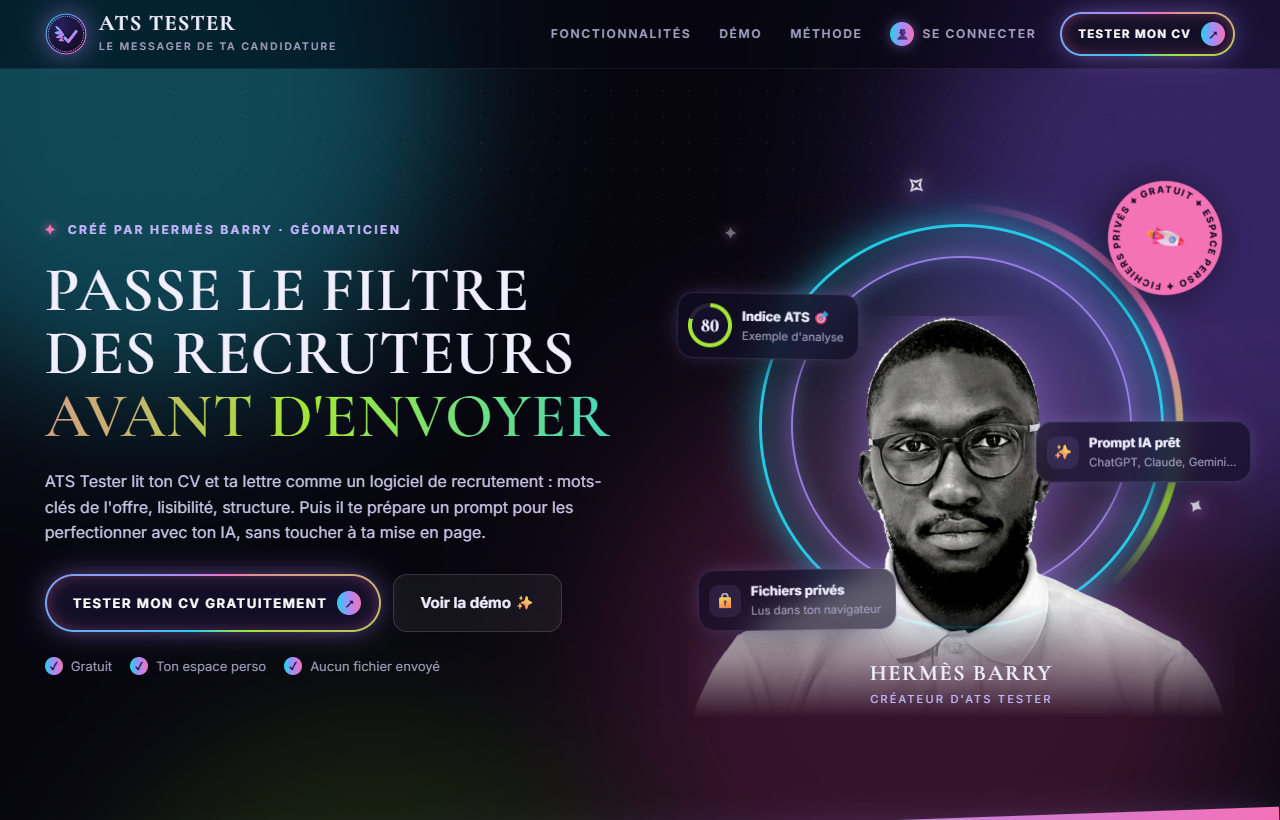
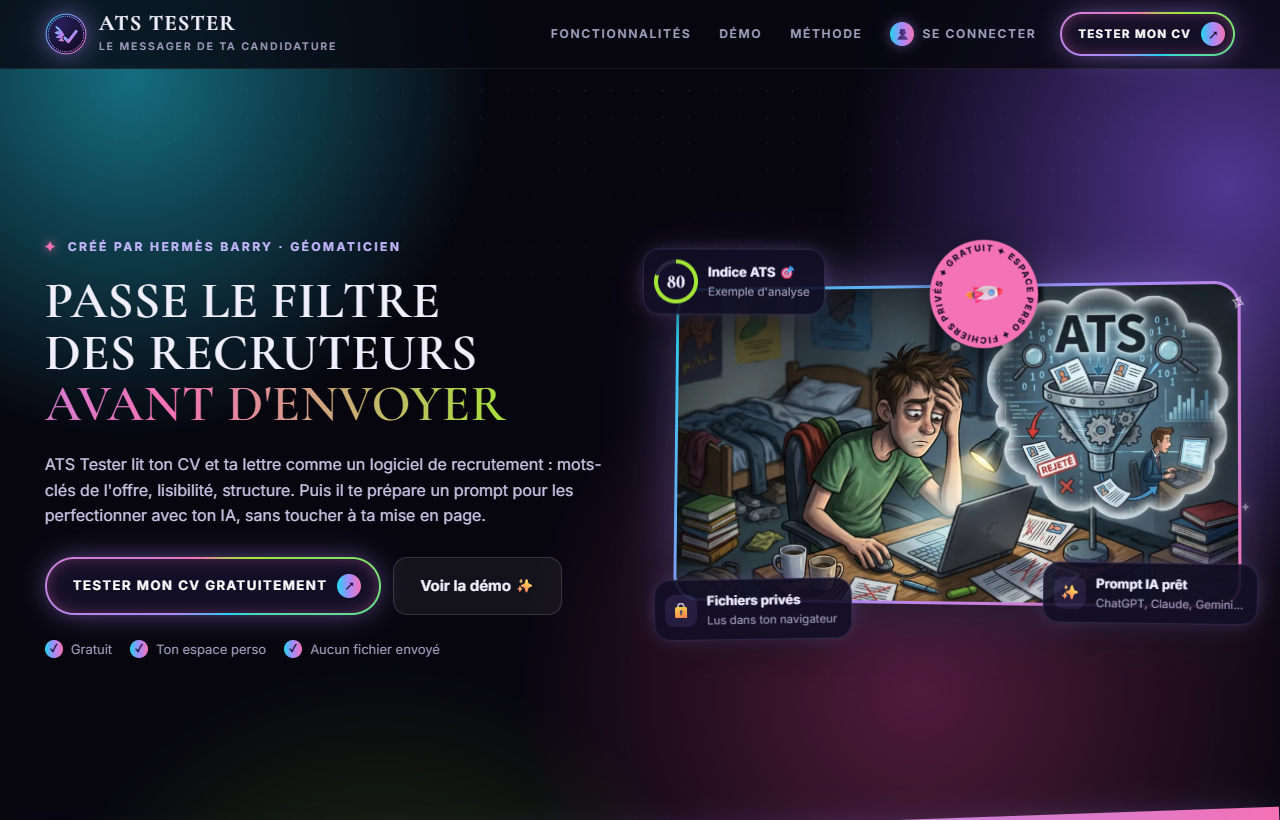
Accueil : illustrations « rejeté par l'ATS » puis « validé par ATS Tester »
- En accroche, l'illustration du candidat rejeté remplace le grand portrait
  (cadre néon incliné, pastilles et badge conservés)
- Dans l'appel final « Prêt à passer le filtre ? », l'illustration où
  ATS Tester valide le CV : la page se lit problème → solution
- Images en WebP, 900 et 1600 px selon l'écran (3 Mo → 70 à 220 Ko)
- Image de partage (LinkedIn, WhatsApp…) refaite avec la nouvelle illustration
- Photo du créateur chargée seulement à l'approche de sa section
- Rétablit les chiffres alignés dans les titres et l'animation de rotation,
  retirés par erreur avec le décor de l'ancien portrait

diff --git a/assets/css/style.css b/assets/css/style.css
@@ -139,53 +139,45 @@ main.wrap { padding-bottom: 72px; }
 .icon-btn:hover { background: var(--surface-2); color: var(--text); }
 
 /* ---------- Accroche publicitaire ---------- */
-.hero { position: relative; display: grid; grid-template-columns: minmax(0, 1.08fr) minmax(0, 1fr); gap: clamp(20px, 4vw, 80px); align-items: center; min-height: min(800px, calc(100vh - 70px)); padding: 36px 0 30px; }
-.hero h1 { font-family: var(--serif); font-weight: 600; text-transform: uppercase; font-size: clamp(38px, 4.9vw, 92px); line-height: 1; letter-spacing: .01em; margin: 18px 0 22px; }
+.hero { position: relative; display: grid; grid-template-columns: minmax(0, 1fr) minmax(0, 1fr); gap: clamp(20px, 4vw, 80px); align-items: center; min-height: min(800px, calc(100vh - 70px)); padding: 36px 0 30px; }
+.hero h1 { font-family: var(--serif); font-weight: 600; text-transform: uppercase; font-size: clamp(38px, 4vw, 84px); line-height: 1; letter-spacing: .01em; margin: 18px 0 22px; }
 .lead { font-size: clamp(16px, 1.05vw, 19px); color: #C9C4E4; max-width: 58ch; margin: 0 0 28px; }
 .hero-cta { display: flex; flex-wrap: wrap; gap: 12px; }
 .trust { list-style: none; display: flex; flex-wrap: wrap; gap: 6px 18px; margin: 24px 0 0; padding: 0; font-size: 13px; color: var(--muted); }
 .trust li { display: inline-flex; align-items: center; gap: 8px; }
 .trust li::before { content: "✓"; display: grid; place-items: center; width: 18px; height: 18px; border-radius: 50%; font-size: 11px; font-weight: 800; color: #160B2E; background: var(--grad); }
 
-.hero-visual { position: relative; width: 100%; max-width: 720px; aspect-ratio: 1 / 1.02; justify-self: center; }
-.halo { position: absolute; left: 13%; right: 13%; top: 10%; aspect-ratio: 1; border-radius: 50%; }
-.halo::before { content: ""; position: absolute; inset: -20%; border-radius: 50%; background: radial-gradient(closest-side, rgba(167, 139, 250, .3), rgba(34, 211, 238, .1) 55%, transparent 72%); animation: pulse 5s ease-in-out infinite; }
-@keyframes pulse { 50% { transform: scale(1.06); opacity: .8; } }
-.halo span { position: absolute; border-radius: 50%; }
-.halo span:nth-child(1) { inset: 0; border: 3px solid rgba(34, 211, 238, .95); box-shadow: 0 0 44px rgba(34, 211, 238, .6), inset 0 0 44px rgba(34, 211, 238, .35); }
-.halo span:nth-child(2) { inset: 8%; border: 2px solid rgba(167, 139, 250, .85); box-shadow: 0 0 30px rgba(167, 139, 250, .55), inset 0 0 20px rgba(167, 139, 250, .3); }
-.halo span:nth-child(3) { inset: -5%; background: conic-gradient(from 0deg, transparent 0 62%, rgba(244, 114, 182, .95) 80%, rgba(163, 230, 53, .9) 92%, transparent 100%);
-  -webkit-mask: radial-gradient(closest-side, transparent 96%, #000 97%, #000 99.5%, transparent 100%); mask: radial-gradient(closest-side, transparent 96%, #000 97%, #000 99.5%, transparent 100%);
-  animation: spin 7s linear infinite; }
+/* Illustration de l'accroche (et de l'appel final) dans un cadre néon légèrement incliné */
+.hero-visual { position: relative; width: 100%; max-width: 900px; justify-self: center; padding: 30px 0 36px; }
+.scene-frame { position: relative; z-index: 1; margin: 0; padding: 3px; border-radius: 26px; background: linear-gradient(135deg, #22D3EE, #A78BFA 50%, #F472B6);
+  box-shadow: 0 34px 70px -34px rgba(0, 0, 0, .95), 0 0 70px -18px rgba(167, 139, 250, .8);
+  transform: perspective(1400px) rotateY(-7deg) rotateX(2deg); transition: transform .6s cubic-bezier(.2, .8, .2, 1); }
+.scene-frame:hover { transform: perspective(1400px) rotateY(0) rotateX(0) scale(1.01); }
+.scene-img { display: block; width: 100%; height: auto; border-radius: 23px; background: #120E26; }
+.scene-frame-alt { transform: perspective(1400px) rotateY(7deg) rotateX(2deg); }
 @keyframes spin { to { transform: rotate(360deg); } }
-.portrait { position: absolute; left: 0; right: 0; bottom: 0; width: 100%; height: auto; z-index: 1;
-  -webkit-mask: linear-gradient(to bottom, #000 70%, transparent 98%); mask: linear-gradient(to bottom, #000 70%, transparent 98%);
-  filter: contrast(1.06) drop-shadow(0 0 22px rgba(167, 139, 250, .45)); }
-.sticker { position: absolute; z-index: 3; right: 2%; top: 2%; width: 118px; height: 118px; animation: spin 16s linear infinite; filter: drop-shadow(0 8px 20px rgba(0, 0, 0, .5)); }
+.sticker { position: absolute; z-index: 3; left: 46%; top: -4%; width: 112px; height: 112px; animation: spin 16s linear infinite; filter: drop-shadow(0 8px 20px rgba(0, 0, 0, .5)); }
 .sticker circle { fill: #F472B6; }
 .sticker text { font: 800 9.6px/1 var(--sans); letter-spacing: .14em; fill: #1A0B26; }
 .sticker .sticker-center { font-size: 30px; letter-spacing: 0; }
 .sparkle { position: absolute; z-index: 2; color: #fff; text-shadow: 0 0 12px var(--violet), 0 0 24px var(--pink); animation: twinkle 2.8s ease-in-out infinite; pointer-events: none; }
-.sparkle.s1 { left: 6%; top: 8%; font-size: 26px; }
-.sparkle.s2 { right: 6%; top: 58%; font-size: 18px; animation-delay: -1s; }
-.sparkle.s3 { left: 40%; top: 0; font-size: 22px; animation-delay: -1.8s; }
+.sparkle.s1 { left: -2%; top: 4%; font-size: 26px; }
+.sparkle.s2 { right: -3%; top: 62%; font-size: 18px; animation-delay: -1s; }
+.sparkle.s3 { right: -2%; top: 8%; font-size: 22px; animation-delay: -1.8s; }
 @keyframes twinkle { 0%, 100% { transform: scale(.6) rotate(0); opacity: .4; } 50% { transform: scale(1.2) rotate(45deg); opacity: 1; } }
 .float-chip { position: absolute; z-index: 2; display: flex; align-items: center; gap: 10px; padding: 10px 14px 10px 10px; border-radius: 16px;
   background: rgba(18, 14, 38, .9); border: 1px solid var(--border);
   box-shadow: 0 18px 40px -20px rgba(0, 0, 0, .9), 0 0 24px -10px rgba(167, 139, 250, .8); font-size: 13px; animation: bob 6s ease-in-out infinite; }
 .float-chip b { display: block; font-weight: 700; }
 .float-chip small { display: block; color: var(--muted); font-size: 11.5px; }
-.chip-score { left: -2%; top: 24%; }
-.chip-ai { right: -3%; top: 46%; animation-delay: -2s; }
-.chip-lock { left: 2%; bottom: 17%; animation-delay: -4s; }
+.chip-score { left: -4%; top: 0; }
+.chip-ai { right: -4%; bottom: 2%; animation-delay: -2s; }
+.chip-lock { left: -2%; bottom: 0; animation-delay: -4s; }
 .chip-ring { position: relative; width: 44px; height: 44px; border-radius: 50%; display: grid; place-items: center; background: conic-gradient(var(--lime) 80%, rgba(255, 255, 255, .1) 0); }
 .chip-ring::after { content: ""; position: absolute; inset: 4px; border-radius: 50%; background: #140F2A; }
 .chip-ring span { position: relative; z-index: 1; font: 700 18px/1 var(--serif); }
 .chip-ico { width: 32px; height: 32px; display: grid; place-items: center; border-radius: 10px; background: var(--accent-soft); font-size: 16px; }
 @keyframes bob { 0%, 100% { transform: translateY(0) rotate(-1deg); } 50% { transform: translateY(-9px) rotate(1deg); } }
-.signature { position: absolute; z-index: 2; left: 50%; bottom: 3%; transform: translateX(-50%); text-align: center; white-space: nowrap; }
-.signature b { display: block; font: 600 22px/1.1 var(--serif); letter-spacing: .08em; text-transform: uppercase; }
-.signature span { font-size: 11px; color: var(--accent-text); letter-spacing: .2em; text-transform: uppercase; }
 
 /* Bandeau défilant */
 .marquee { position: relative; margin: 10px calc(50% - 50vw) 30px; width: 100vw; overflow: hidden; transform: rotate(-2deg); background: var(--grad); padding: 14px 0; box-shadow: 0 10px 40px -10px rgba(167, 139, 250, .7); }
@@ -288,8 +280,9 @@ main.wrap { padding-bottom: 72px; }
 .final-cta { position: relative; text-align: center; padding: 56px 24px; border-radius: 32px; overflow: hidden;
   background: radial-gradient(80% 120% at 50% 0%, rgba(139, 92, 246, .45), transparent 65%), radial-gradient(60% 100% at 100% 100%, rgba(236, 72, 153, .3), transparent 60%), radial-gradient(60% 100% at 0% 100%, rgba(34, 211, 238, .25), transparent 60%), #0E0A22;
   border: 1px solid var(--border-strong); box-shadow: 0 0 80px -30px rgba(167, 139, 250, .9); }
-.final-cta .block-title { font-size: clamp(36px, 5vw, 64px); }
-.final-cta p { max-width: 50ch; margin: 14px auto 26px; }
+.final-cta .block-title { font-size: clamp(36px, 4.4vw, 64px); }
+.final-cta p { max-width: 50ch; margin: 14px 0 26px; }
+.final-grid { position: relative; z-index: 1; display: grid; grid-template-columns: minmax(0, 1.15fr) minmax(0, 1fr); gap: clamp(28px, 4vw, 64px); align-items: center; text-align: left; }
 .sparkle.s4 { left: 12%; top: 20%; font-size: 34px; }
 .sparkle.s5 { right: 14%; bottom: 22%; font-size: 26px; animation-delay: -1.4s; }
 
@@ -857,7 +850,7 @@ main.login { display: grid; grid-template-columns: minmax(0, 1.1fr) minmax(0, 54
 .think-steps li.is-done .val { opacity: 1; transform: none; }
 
 /* Chiffres alignés dans les titres en Cormorant (le raccourci « font » remet les chiffres elzéviriens) */
-.chip-ring span, .metric b, .stat b, .ring span, .verdict, .signature b, .block-title, .hero h1, .app-hero h1, .demo-verdict,
+.chip-ring span, .metric b, .stat b, .ring span, .verdict, .block-title, .hero h1, .app-hero h1, .demo-verdict,
 .feature-body h3, .next-offer b, .dlg-head h2, .brand-name, .footer-name, .login-visual h1, .think h2, .pillar-score { font-variant-numeric: lining-nums; }
 
 /* ---------- Responsive ---------- */
@@ -873,7 +866,10 @@ main.login { display: grid; grid-template-columns: minmax(0, 1.1fr) minmax(0, 54
   .login-card { order: -1; }
   .login-mock { display: none; }
   .hero { grid-template-columns: 1fr; min-height: 0; padding-top: 28px; }
-  .hero-visual { max-width: 520px; }
+  .hero-visual { max-width: 720px; padding: 18px 0 30px; }
+  .scene-frame, .scene-frame-alt { transform: none; }
+  .final-grid { grid-template-columns: 1fr; text-align: center; }
+  .final-cta p { margin: 14px auto 26px; }
   .features { grid-template-columns: 1fr; }
   .feature { display: grid; grid-template-columns: 220px 1fr; }
   .feature-art { height: auto; min-height: 170px; }
@@ -907,9 +903,11 @@ main.login { display: grid; grid-template-columns: minmax(0, 1.1fr) minmax(0, 54
   .sticker { width: 88px; height: 88px; }
   .float-chip { padding: 7px 10px 7px 7px; font-size: 12px; }
   .float-chip small { display: none; }
-  .chip-score { left: 0; top: 18%; }
-  .chip-ai { right: 0; top: 46%; }
-  .chip-lock { left: 0; bottom: 20%; }
+  .chip-score { left: -2%; top: 0; }
+  .chip-ai { right: -2%; bottom: 0; }
+  .chip-lock { display: none; }
+  .sticker { width: 74px; height: 74px; left: 44%; top: -2%; }
+  .final-cta .sparkle { display: none; }
   .chip-ring { width: 36px; height: 36px; }
   .chip-ring span { font-size: 15px; }
   .marquee span { font-size: 13px; }

diff --git a/index.html b/index.html
@@ -11,12 +11,12 @@
   <meta property="og:description" content="Teste ton CV et ta lettre de motivation face à une fiche de poste, comme un logiciel de recrutement (ATS). Gratuit, et tes fichiers restent dans ton navigateur.">
   <meta property="og:image" content="https://hermes-bit.github.io/ats-tester/assets/img/og-image.png">
   <meta name="twitter:card" content="summary_large_image">
-  <link rel="icon" href="assets/img/favicon.svg?v=16" type="image/svg+xml">
-  <link rel="apple-touch-icon" href="assets/img/apple-touch-icon.png?v=16">
+  <link rel="icon" href="assets/img/favicon.svg?v=17" type="image/svg+xml">
+  <link rel="apple-touch-icon" href="assets/img/apple-touch-icon.png?v=17">
   <link rel="preload" href="assets/vendor/fonts/inter-latin-wght.woff2" as="font" type="font/woff2" crossorigin>
   <link rel="preload" href="assets/vendor/fonts/cormorant-garamond-latin-600.woff2" as="font" type="font/woff2" crossorigin>
-  <link rel="preload" href="assets/img/hermes-barry.webp" as="image" type="image/webp">
-  <link rel="stylesheet" href="assets/css/style.css?v=16">
+  <link rel="preload" as="image" type="image/webp" href="assets/img/ats-rejete-1600.webp" imagesrcset="assets/img/ats-rejete-900.webp 900w, assets/img/ats-rejete-1600.webp 1600w" imagesizes="(max-width: 900px) 100vw, 55vw">
+  <link rel="stylesheet" href="assets/css/style.css?v=17">
 </head>
 <body class="page-home">
   <div class="bg-fx" aria-hidden="true"><span></span><span></span><span></span><span></span></div>
@@ -26,7 +26,7 @@
       <div class="topbar-left">
       <button class="back-btn" type="button" data-back="" data-back-optional hidden aria-label="Revenir à la page précédente" title="Revenir à la page précédente"><span class="back-ico" aria-hidden="true">←</span><span class="back-txt">Retour</span></button>
       <a class="brand" href="#top" aria-label="ATS Tester, retour en haut">
-        <img class="brand-mark" src="assets/img/logo.svg?v=16" width="42" height="42" alt="">
+        <img class="brand-mark" src="assets/img/logo.svg?v=17" width="42" height="42" alt="">
         <div>
           <div class="brand-name">ATS Tester</div>
           <div class="brand-tag">Le messager de ta candidature</div>
@@ -62,8 +62,10 @@
       </div>
 
       <div class="hero-visual reveal">
-        <div class="halo" aria-hidden="true"><span></span><span></span><span></span></div>
-        <img class="portrait" src="assets/img/hermes-barry.webp" width="900" height="675" alt="Portrait d'Hermès BARRY, créateur d'ATS Tester">
+        <figure class="scene-frame">
+          <img class="scene-img" src="assets/img/ats-rejete-1600.webp" srcset="assets/img/ats-rejete-900.webp 900w, assets/img/ats-rejete-1600.webp 1600w" sizes="(max-width: 900px) 100vw, 55vw" width="1600" height="893" fetchpriority="high"
+            alt="Illustration : un candidat découragé devant son ordinateur imagine le logiciel ATS qui trie les CV comme un entonnoir et rejette le sien avant qu'il n'arrive au recruteur.">
+        </figure>
         <svg class="sticker" viewBox="0 0 120 120" aria-hidden="true">
           <defs><path id="sticker-circle" d="M60 60 m-46 0 a46 46 0 1 1 92 0 a46 46 0 1 1 -92 0"/></defs>
           <circle cx="60" cy="60" r="58"/>
@@ -79,7 +81,6 @@
         </div>
         <div class="float-chip chip-ai" aria-hidden="true"><span class="chip-ico">✨</span><div><b>Prompt IA prêt</b><small>ChatGPT, Claude, Gemini…</small></div></div>
         <div class="float-chip chip-lock" aria-hidden="true"><span class="chip-ico">🔒</span><div><b>Fichiers privés</b><small>Lus dans ton navigateur</small></div></div>
-        <div class="signature"><b>Hermès BARRY</b><span>Créateur d'ATS Tester</span></div>
       </div>
     </section>
 
@@ -220,7 +221,7 @@
 
     <!-- Créateur -->
     <section class="block creator reveal" id="createur">
-      <img class="creator-photo" src="assets/img/hermes-barry.webp" width="900" height="675" alt="">
+      <img class="creator-photo" src="assets/img/hermes-barry.webp" width="900" height="675" alt="" loading="lazy" decoding="async">
       <div class="creator-text">
         <div class="kicker">Le créateur</div>
         <h2 class="block-title">Hermès BARRY</h2>
@@ -235,17 +236,25 @@
     <!-- Appel final -->
     <section class="block final-cta reveal">
       <span class="sparkle s4" aria-hidden="true">✦</span><span class="sparkle s5" aria-hidden="true">✧</span>
-      <div class="kicker">C'est parti</div>
-      <h2 class="block-title">Prêt à passer<br><span class="grad-text shimmer">le filtre ?</span></h2>
-      <p class="muted">Dix minutes, un espace gratuit, et ta candidature arrive enfin jusqu'au recruteur.</p>
-      <a class="btn btn-neon btn-large" href="connexion.html">Tester mon CV maintenant <span class="arrow" aria-hidden="true">↗</span></a>
+      <div class="final-grid">
+        <figure class="scene-frame scene-frame-alt">
+          <img class="scene-img" src="assets/img/ats-valide-1600.webp" srcset="assets/img/ats-valide-900.webp 900w, assets/img/ats-valide-1600.webp 1600w" sizes="(max-width: 900px) 100vw, 50vw" width="1600" height="893" loading="lazy" decoding="async"
+            alt="Illustration : une amie montre ATS Tester au candidat sur sa tablette ; son CV obtient un bon score, il est validé et passe le filtre jusqu'au recruteur.">
+        </figure>
+        <div class="final-text">
+          <div class="kicker">C'est parti</div>
+          <h2 class="block-title">Prêt à passer<br><span class="grad-text shimmer">le filtre ?</span></h2>
+          <p class="muted">Dix minutes, un espace gratuit, et ta candidature arrive enfin jusqu'au recruteur.</p>
+          <a class="btn btn-neon btn-large" href="connexion.html">Tester mon CV maintenant <span class="arrow" aria-hidden="true">↗</span></a>
+        </div>
+      </div>
     </section>
   </main>
 
   <footer class="footer">
     <div class="wrap footer-inner">
       <div class="footer-brand">
-        <img src="assets/img/logo.svg?v=16" width="36" height="36" alt="">
+        <img src="assets/img/logo.svg?v=17" width="36" height="36" alt="">
         <div>
           <div class="footer-name">ATS Tester</div>
           <div class="footer-tag">Le messager de ta candidature</div>
@@ -262,8 +271,8 @@
     </div>
   </footer>
 
-  <script src="assets/js/config.js?v=16"></script>
-  <script src="assets/js/auth.js?v=16"></script>
-  <script src="assets/js/fx.js?v=16"></script>
+  <script src="assets/js/config.js?v=17"></script>
+  <script src="assets/js/auth.js?v=17"></script>
+  <script src="assets/js/fx.js?v=17"></script>
 </body>
 </html>

diff --git a/analyser.html b/analyser.html
@@ -6,12 +6,12 @@
   <title>Analyser ma candidature – ATS Tester</title>
   <meta name="description" content="Compare ton CV et ta lettre de motivation à une fiche de poste, comme un logiciel de recrutement (ATS). Tout reste dans ton navigateur.">
   <meta name="theme-color" content="#07060F">
-  <link rel="icon" href="assets/img/favicon.svg?v=16" type="image/svg+xml">
-  <link rel="apple-touch-icon" href="assets/img/apple-touch-icon.png?v=16">
+  <link rel="icon" href="assets/img/favicon.svg?v=17" type="image/svg+xml">
+  <link rel="apple-touch-icon" href="assets/img/apple-touch-icon.png?v=17">
   <link rel="preload" href="assets/vendor/fonts/inter-latin-wght.woff2" as="font" type="font/woff2" crossorigin>
-  <link rel="stylesheet" href="assets/css/style.css?v=16">
-  <script src="assets/js/config.js?v=16"></script>
-  <script src="assets/js/auth.js?v=16"></script>
+  <link rel="stylesheet" href="assets/css/style.css?v=17">
+  <script src="assets/js/config.js?v=17"></script>
+  <script src="assets/js/auth.js?v=17"></script>
   <script>ATS.auth.guard(location.hash === "#candidatures" ? "analyser.html#candidatures" : "analyser.html");</script>
 </head>
 <body class="page-app">
@@ -22,7 +22,7 @@
       <div class="topbar-left">
       <button class="back-btn" type="button" data-back="index.html" aria-label="Revenir à la page précédente" title="Revenir à la page précédente"><span class="back-ico" aria-hidden="true">←</span><span class="back-txt">Retour</span></button>
       <a class="brand" href="index.html" aria-label="ATS Tester, accueil">
-        <img class="brand-mark" src="assets/img/logo.svg?v=16" width="42" height="42" alt="">
+        <img class="brand-mark" src="assets/img/logo.svg?v=17" width="42" height="42" alt="">
         <div>
           <div class="brand-name">ATS Tester</div>
           <div class="brand-tag">Le messager de ta candidature</div>
@@ -399,7 +399,7 @@
     <div class="think-card">
       <div class="think-visual" aria-hidden="true">
         <div class="think-doc"><i></i><i></i><i></i><i></i><i></i><i></i><span class="think-scan"></span></div>
-        <img class="think-logo" src="assets/img/logo.svg?v=16" alt="">
+        <img class="think-logo" src="assets/img/logo.svg?v=17" alt="">
       </div>
       <h2 id="think-title"><span id="think-label">Analyse en cours</span><span class="dots" aria-hidden="true"></span></h2>
       <p class="muted" id="think-sub">Le messager lit ta candidature comme un recruteur pressé.</p>
@@ -411,7 +411,7 @@
   <footer class="footer">
     <div class="wrap footer-inner">
       <div class="footer-brand">
-        <img src="assets/img/logo.svg?v=16" width="36" height="36" alt="">
+        <img src="assets/img/logo.svg?v=17" width="36" height="36" alt="">
         <div>
           <div class="footer-name">ATS Tester</div>
           <div class="footer-tag">Le messager de ta candidature</div>
@@ -432,16 +432,16 @@
 
   <script src="assets/vendor/pdf.min.js"></script>
   <script src="assets/vendor/mammoth.browser.min.js"></script>
-  <script src="assets/js/keywords.js?v=16"></script>
-  <script src="assets/js/extract.js?v=16"></script>
-  <script src="assets/js/analyzer.js?v=16"></script>
-  <script src="assets/js/profile.js?v=16"></script>
-  <script src="assets/js/offer.js?v=16"></script>
-  <script src="assets/js/search.js?v=16"></script>
-  <script src="assets/js/prompt.js?v=16"></script>
-  <script src="assets/js/storage.js?v=16"></script>
-  <script src="assets/js/files.js?v=16"></script>
-  <script src="assets/js/fx.js?v=16"></script>
-  <script src="assets/js/app.js?v=16"></script>
+  <script src="assets/js/keywords.js?v=17"></script>
+  <script src="assets/js/extract.js?v=17"></script>
+  <script src="assets/js/analyzer.js?v=17"></script>
+  <script src="assets/js/profile.js?v=17"></script>
+  <script src="assets/js/offer.js?v=17"></script>
+  <script src="assets/js/search.js?v=17"></script>
+  <script src="assets/js/prompt.js?v=17"></script>
+  <script src="assets/js/storage.js?v=17"></script>
+  <script src="assets/js/files.js?v=17"></script>
+  <script src="assets/js/fx.js?v=17"></script>
+  <script src="assets/js/app.js?v=17"></script>
 </body>
 </html>

diff --git a/connexion.html b/connexion.html
@@ -6,11 +6,11 @@
   <title>Mon espace – ATS Tester</title>
   <meta name="description" content="Connecte-toi à ton espace ATS Tester pour retrouver tes candidatures et tester ton CV face à une offre d'emploi.">
   <meta name="theme-color" content="#07060F">
-  <link rel="icon" href="assets/img/favicon.svg?v=16" type="image/svg+xml">
-  <link rel="apple-touch-icon" href="assets/img/apple-touch-icon.png?v=16">
+  <link rel="icon" href="assets/img/favicon.svg?v=17" type="image/svg+xml">
+  <link rel="apple-touch-icon" href="assets/img/apple-touch-icon.png?v=17">
   <link rel="preload" href="assets/vendor/fonts/inter-latin-wght.woff2" as="font" type="font/woff2" crossorigin>
   <link rel="preload" href="assets/vendor/fonts/cormorant-garamond-latin-600.woff2" as="font" type="font/woff2" crossorigin>
-  <link rel="stylesheet" href="assets/css/style.css?v=16">
+  <link rel="stylesheet" href="assets/css/style.css?v=17">
 </head>
 <body class="page-login is-splashing">
   <div class="bg-fx" aria-hidden="true"><span></span><span></span><span></span><span></span></div>
@@ -54,7 +54,7 @@
       <div class="topbar-left">
       <button class="back-btn" type="button" data-back="index.html" aria-label="Revenir à la page précédente" title="Revenir à la page précédente"><span class="back-ico" aria-hidden="true">←</span><span class="back-txt">Retour</span></button>
       <a class="brand" href="index.html" aria-label="ATS Tester, accueil">
-        <img class="brand-mark" src="assets/img/logo.svg?v=16" width="42" height="42" alt="">
+        <img class="brand-mark" src="assets/img/logo.svg?v=17" width="42" height="42" alt="">
         <div>
           <div class="brand-name">ATS Tester</div>
           <div class="brand-tag">Le messager de ta candidature</div>
@@ -168,7 +168,7 @@
   <footer class="footer">
     <div class="wrap footer-inner">
       <div class="footer-brand">
-        <img src="assets/img/logo.svg?v=16" width="36" height="36" alt="">
+        <img src="assets/img/logo.svg?v=17" width="36" height="36" alt="">
         <div>
           <div class="footer-name">ATS Tester</div>
           <div class="footer-tag">Le messager de ta candidature</div>
@@ -187,9 +187,9 @@
 
   <canvas id="confetti" aria-hidden="true"></canvas>
 
-  <script src="assets/js/config.js?v=16"></script>
-  <script src="assets/js/auth.js?v=16"></script>
-  <script src="assets/js/fx.js?v=16"></script>
-  <script src="assets/js/login.js?v=16"></script>
+  <script src="assets/js/config.js?v=17"></script>
+  <script src="assets/js/auth.js?v=17"></script>
+  <script src="assets/js/fx.js?v=17"></script>
+  <script src="assets/js/login.js?v=17"></script>
 </body>
 </html>

diff --git a/README.md b/README.md
@@ -45,7 +45,7 @@ La plupart des entreprises trient les candidatures avec un ATS (*Applicant Track
 
 Le site compte trois pages :
 
-- **`index.html`** : la page publicitaire de l'outil, présentée par son créateur (accroche avec portrait, fonctionnalités, démo avant / après, chiffres, méthode, créateur).
+- **`index.html`** : la page publicitaire de l'outil, présentée par son créateur. Elle raconte une histoire en deux illustrations : en accroche, le candidat dont le CV est rejeté par l'ATS ; dans l'appel final, ATS Tester qui le fait passer. Entre les deux : fonctionnalités, démo avant / après, chiffres, méthode, créateur.
 - **`connexion.html`** : l'écran de lancement (logo animé, chargement jusqu'à 100 %), puis la connexion ou la création d'un espace.
 ![Page de connexion](docs/apercu-connexion.png)
 
@@ -157,7 +157,7 @@ ats-tester/
 │   ├── js/login.js            # Écran de lancement et formulaires de connexion
 │   ├── js/app.js              # Interface du testeur
 │   ├── js/fx.js               # Effets : apparitions, compteurs, démo, confettis
-│   ├── img/                   # Logo, favicon, portrait, icône iPhone, image de partage
+│   ├── img/                   # Logo, favicon, illustrations (WebP, 900 et 1600 px), portrait, icône iPhone, image de partage
 │   └── vendor/                # pdf.js 3.11.174, mammoth 1.8.0 et polices (inclus, sans CDN)
 ├── supabase/schema.sql        # Table, règles d'accès, vues du schéma ATS et index plein texte
 ├── tests/                     # Tests unitaires Jest (+ PGlite pour le SQL)
